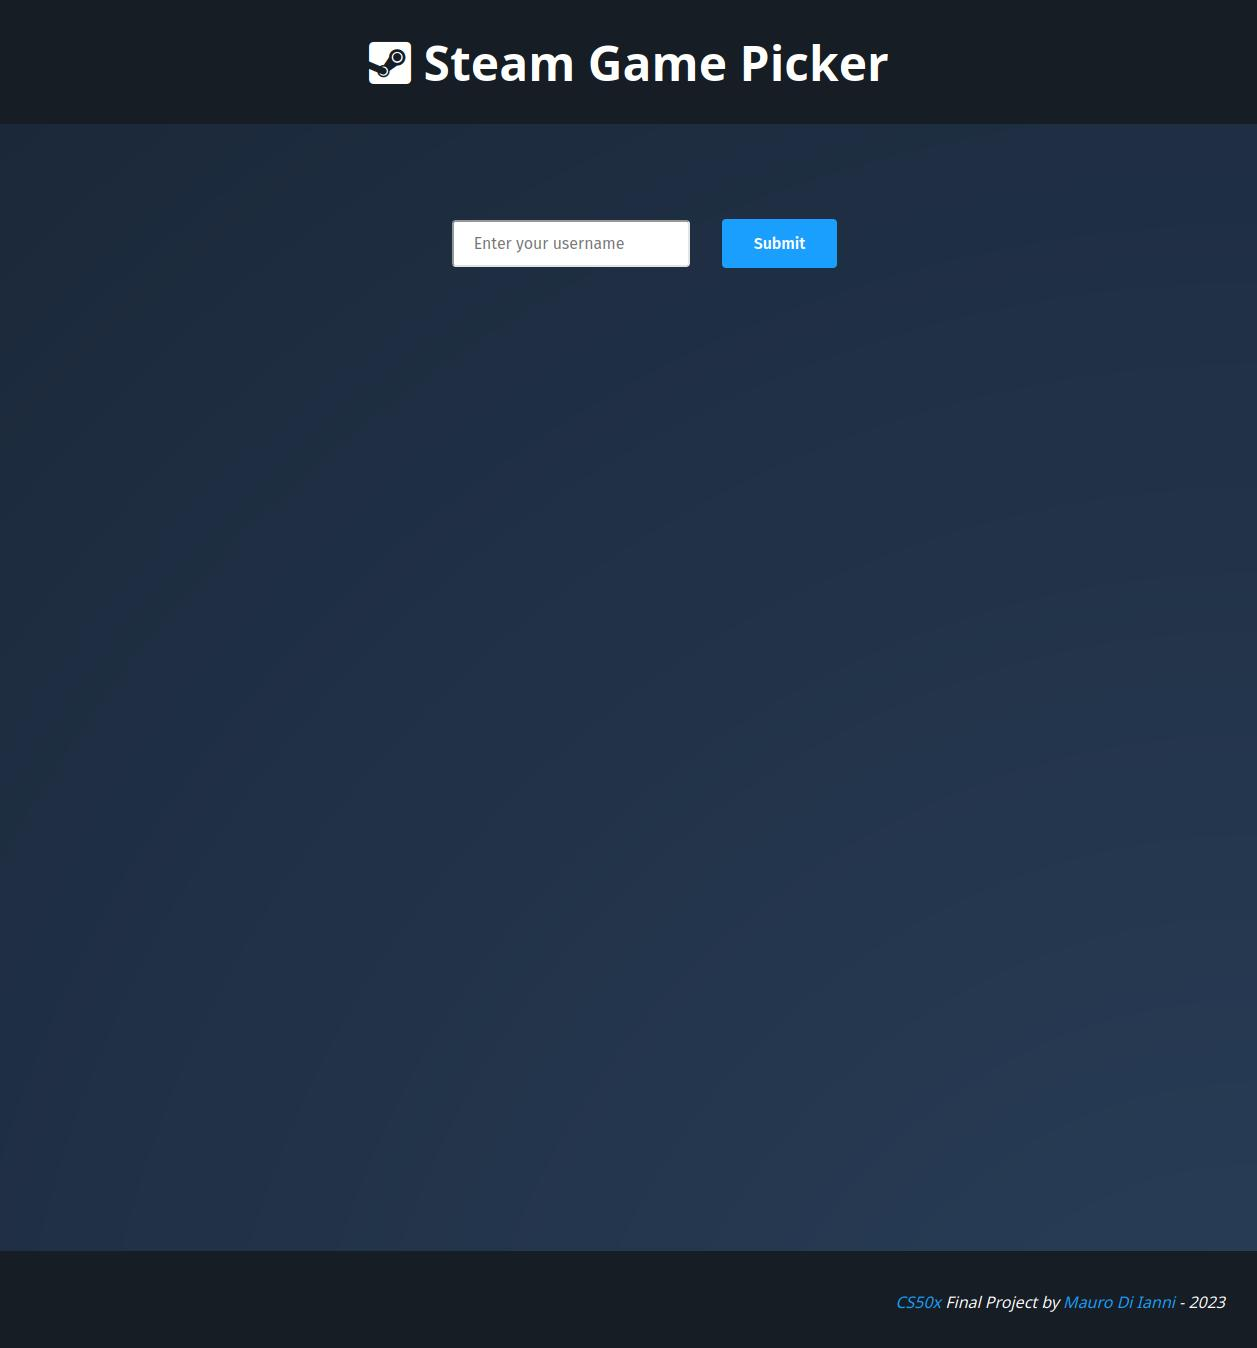
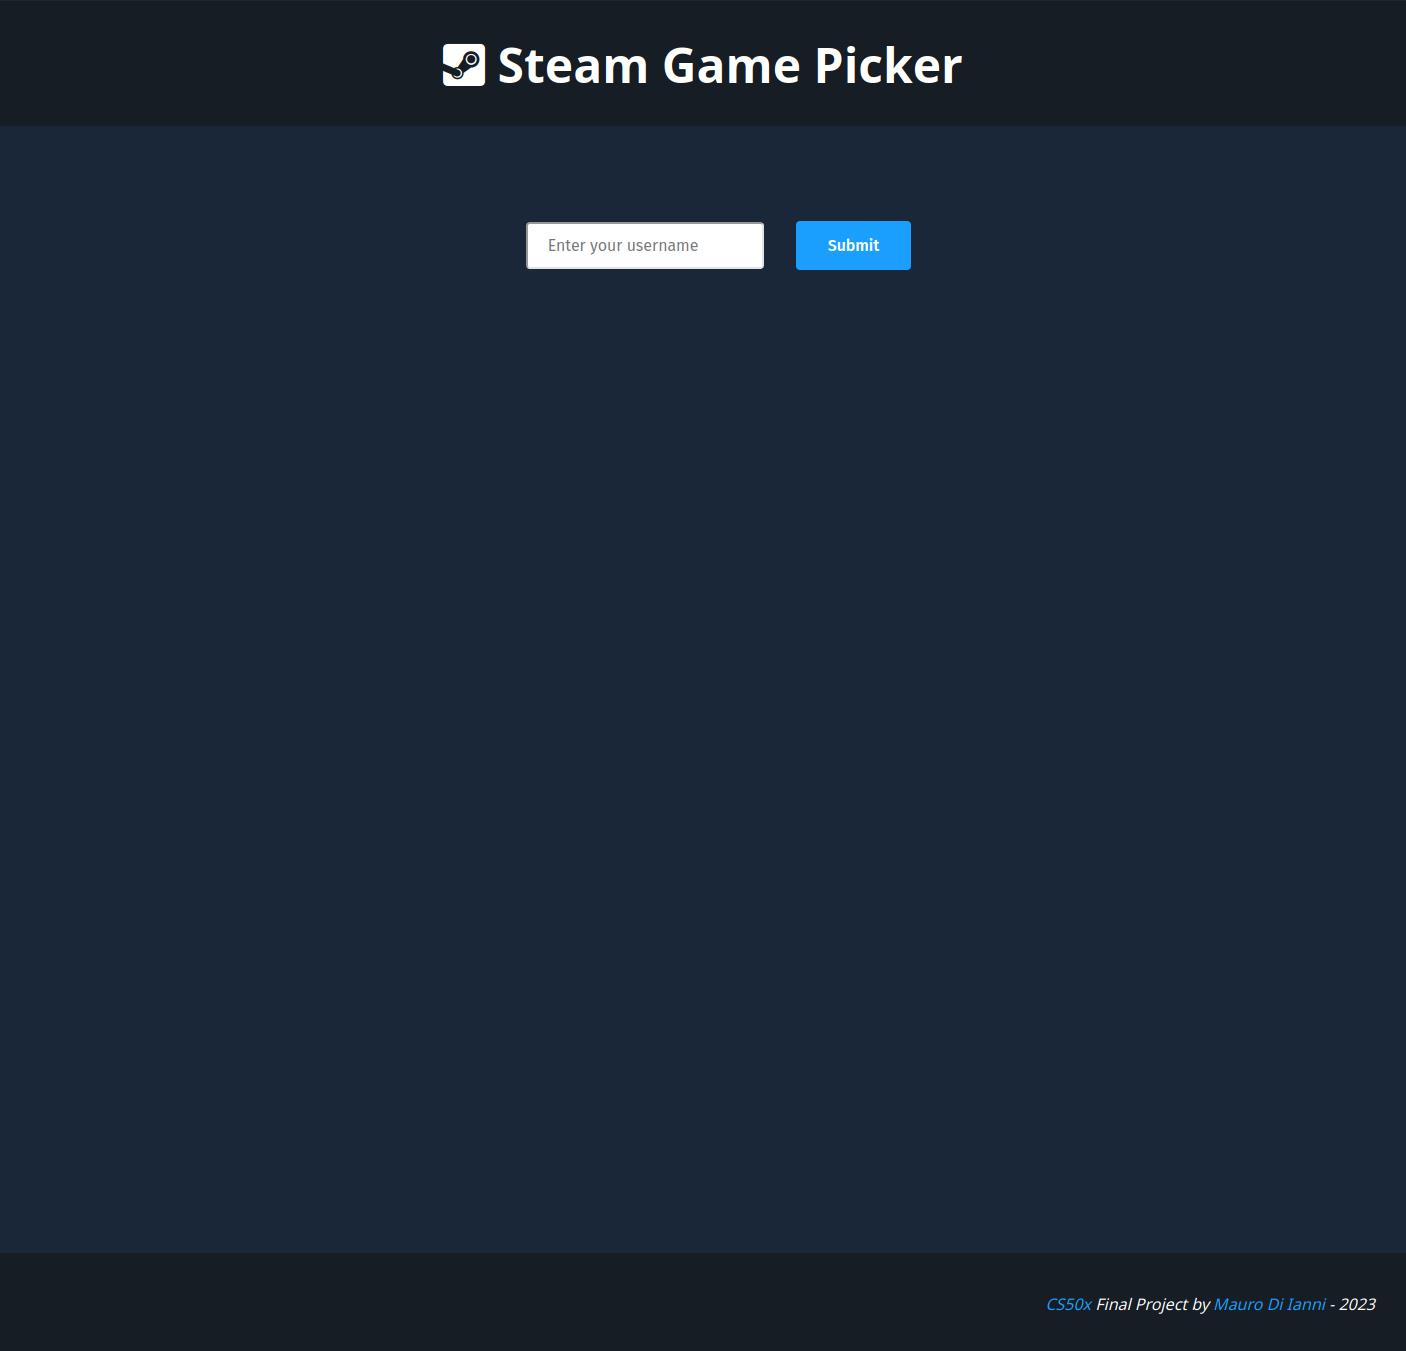
fixed BG, replaced screenshots

diff --git a/static/styles.css b/static/styles.css
@@ -5,8 +5,8 @@
 /* MAIN */
 
 body {
-  /* background-color: #1a2738; */
-  background: radial-gradient(circle at bottom right, #2a3f5a, #1a2738);
+  background-color: #1a2738;
+  /* background: radial-gradient(circle at bottom right, #2a3f5a, #1a2738); */
   background-size: 100% 400%;
   color: #fffffe;
   font-family: "Noto Sans", sans-serif;

diff --git a/README.md b/README.md
@@ -55,6 +55,9 @@ If you want to try it out on your local machine you'll have to follow a few step
 - Run the Flask application with:
 ```python3 app.py```
 
+I made it so it's quite easy to implement new filters, it's just a matter of writing a new SQL query, add a new case in app.py and update the HTML.
+I might implement new filters in the future, for example selections based on genres or even moods.
+
 ### What's in the files:
 
 The main aplication resides in `app.py`.
